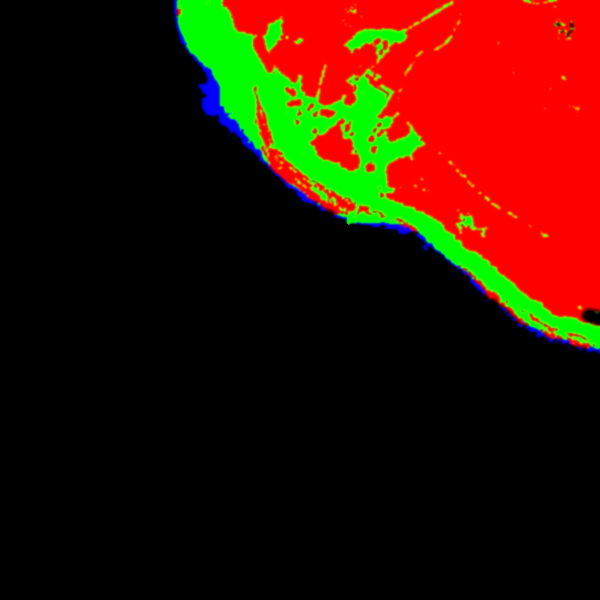
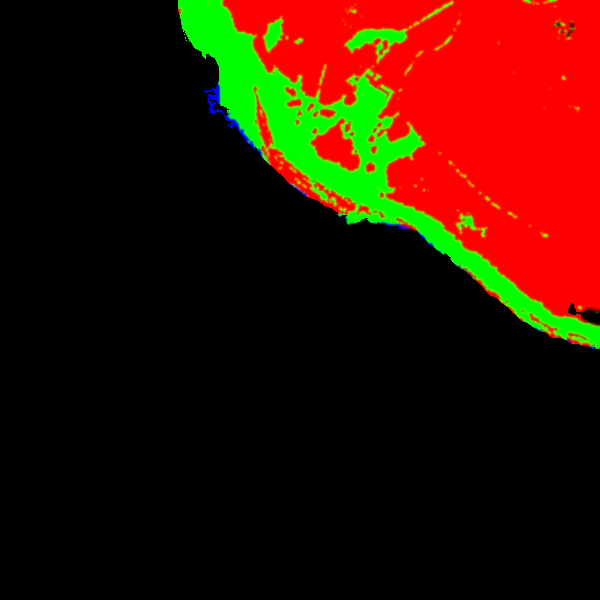
Watching: drag right round to its face, down to eye level, close in to 1.2 m; Kayama's shore where the photo has it; quick back to the sea
Watching a resident: a drag circles all the way round (and stays round there as it turns), tilts
down to eye level; close up or from the side or front the camera looks at it, not past it; a pinch no
longer tips the view to straight down (the finger left behind does nothing); the camera is no longer
forced a metre over the ground, nor above the forest roof inside the opened-up trees round it, nor
lifted by the early climb or the canopy; the horizon stays level as it circles.

The shore: the bake had pushed land out over the pale shallows off the beach (the 10 m elevation
model and its own clean-up), so the drone and residents met land where the photo showed sea.
scripts/fix-coast.py grows the sea from clear water across anything low and water-coloured within
20 m of the old shore (not the beach sand, not the bushes behind it) and lowers it to a shallow floor.

Letting go of someone: straight back to the sea, quickly and above the trees (about 8 s from Dot's
clearing in the middle of the island), and the residents ashore are left be for a while, so the
cruise does not turn back to film the one just left.

Claude-Session: https://claude.ai/code/session_01Cu8HS3iZXwUCH9CtiBM9NN

diff --git a/src/main.ts b/src/main.ts
@@ -244,16 +244,19 @@ function updateDrone(dt: number, now: number) {
     // turn does not swing the view about), looking past it to what lies ahead: it, and its world
     const p = watch.r.pos, T = cur!.T, h = watch.r.head ?? 0, fx = Math.sin(h), fz = Math.cos(h);
     watch.ang += angDiff(Math.atan2(-fz, -fx) + watch.off, watch.ang) * Math.min(1, dt * 0.5);
-    const ce = Math.cos(watch.el), se = Math.sin(watch.el);
-    _t.set(p.x + Math.cos(watch.ang) * ce * watch.dist, p.y + 0.6 + se * watch.dist, p.z + Math.sin(watch.ang) * ce * watch.dist);
-    _t.y = Math.max(_t.y, T.ground(_t.x, _t.z) + 0.9, 1.0);   // clear of the ground, and out of the water (the trees overhead are opened up around it)
+    const ce = Math.cos(watch.el), se = Math.sin(watch.el), mid = watch.r.sp?.living ? 0.3 : 0.55;   // (round its middle: a turtle is low, a robot taller)
+    _t.set(p.x + Math.cos(watch.ang) * ce * watch.dist, p.y + mid + se * watch.dist, p.z + Math.sin(watch.ang) * ce * watch.dist);
+    _t.y = Math.max(_t.y, T.top(_t.x, _t.z) + 0.3, 0.25);   // (the bare ground: the bushes and trees close round it are opened up, not climbed over)   // clear of the ground, and out of the water (the trees overhead are opened up around it)
     _v.subVectors(_t, drone.pos);
     const L = _v.length();
     _v.multiplyScalar(Math.min(L * 1.6, 30) / Math.max(L, 1e-4));   // (across the island quickly when switching)
     if (drone.pos.y < 0) _v.set(_v.x * 0.15, 3, _v.z * 0.15);   // under the water: straight up through the surface first
     drone.vel.lerp(_v, 1 - Math.exp(-dt * 3));
-    const ax = p.x + fx * 2.2, az = p.z + fz * 2.2;
-    const lx = ax - camera.position.x, ly = p.y + 0.5 - camera.position.y, lz = az - camera.position.z;
+    // looking a little past it, the way it is going — but only from behind and not too close; from the side,
+    // in front of it or close up, at it (its face, when you have come round to see it)
+    const behind = clamp(Math.cos(watch.off), 0, 1) * clamp((watch.dist - 2.5) / 4, 0, 1);
+    const ax = p.x + fx * 2.2 * behind, az = p.z + fz * 2.2 * behind;
+    const lx = ax - camera.position.x, ly = p.y + mid - 0.1 * behind - camera.position.y, lz = az - camera.position.z;
     const k = Math.min(1, dt * 2.5);
     drone.yaw += angDiff(Math.atan2(-lx, -lz), drone.yaw) * k;
     drone.pitch += (Math.atan2(ly, Math.hypot(lx, lz)) - drone.pitch) * k;
@@ -310,7 +313,15 @@ function updateDrone(dt: number, now: number) {
     drone.s += speed * dt / Math.max(pathRate(drone.s), 1e-3);
     pathPoint(drone.s, _t);
     _v.subVectors(_t, drone.pos);
-    const L = _v.length(); _v.multiplyScalar(Math.min(L * 1.4, L > 6 ? 4.5 : 3) / Math.max(L, 1e-4));
+    let L = _v.length();
+    // far from the cruise line (just back from the island's middle, or from watching someone inland): fly
+    // straight back to it, quickly, above the trees, and only then down into the water
+    if (L > 20) {
+      const T = cur!.T, gr = Math.max(T.ground(drone.pos.x, drone.pos.z), T.over ? T.over(drone.pos.x, drone.pos.z) : -1e9);
+      const hz = Math.hypot(_v.x, _v.z);
+      if (gr > -0.5 && hz > 12) { _v.y = Math.max(gr + 4, 3) - drone.pos.y; L = _v.length(); }
+      _v.multiplyScalar(Math.min(L * 0.5, 18) / Math.max(L, 1e-4));
+    } else _v.multiplyScalar(Math.min(L * 1.4, L > 6 ? 4.5 : 3) / Math.max(L, 1e-4));
     drone.vel.lerp(_v, 1 - Math.exp(-dt * 1.5));
     pathPoint(drone.s + 9 / Math.max(pathRate(drone.s), 1e-3), _a);
     const dx = _a.x - drone.pos.x, dz = _a.z - drone.pos.z, dy = _a.y - drone.pos.y;
@@ -351,7 +362,7 @@ function updateDrone(dt: number, now: number) {
   }
   // look ahead along the way we are moving and start climbing well before a rock or coral head
   const G = cur!.T.ground, hs = Math.hypot(drone.vel.x, drone.vel.z);
-  if (hs > 0.05) {
+  if (hs > 0.05 && !(watch.r && !watch.pov)) {   // (watching someone, the camera's own spot already keeps clear of the ground: no early climbing away from their eye level)
     let ahead = -1e9;
     // (outside the cave, its rock counts as ground to climb over; inside the tunnel, the roof doesn't)
     const cv = cur!.cave, outside = !cv || cv.topAt(drone.pos.x, drone.pos.z) < drone.pos.y + 0.5;
@@ -365,13 +376,17 @@ function updateDrone(dt: number, now: number) {
   }
   drone.pos.addScaledVector(drone.vel, dt);
   // watching from above: never down inside the forest roof
-  if (watch.r && !watch.pov && cur!.T.over) drone.pos.y = Math.max(drone.pos.y, cur!.T.over(drone.pos.x, drone.pos.z) + 1.5);
+  // (except close by it, where the trees are opened up anyway: there it may come down to eye level)
+  if (watch.r && !watch.pov && cur!.T.over && Math.hypot(drone.pos.x - watch.r.pos.x, drone.pos.z - watch.r.pos.z) > Math.max(7, watch.dist * 1.2) - 0.5) drone.pos.y = Math.max(drone.pos.y, cur!.T.over(drone.pos.x, drone.pos.z) + 1.5);
   // keep a clear bubble: the floor is the highest ground in a ring around the camera, not just under it,
   // and we rise onto it smoothly rather than popping up
-  let fh = G(drone.pos.x, drone.pos.z);
-  for (let k = 0; k < 8; k++) { const a = k * Math.PI / 4; fh = Math.max(fh, G(drone.pos.x + Math.cos(a) * 0.7, drone.pos.z + Math.sin(a) * 0.7) - 0.25); }
-  if (drone.pos.y < fh + 0.75) {
-    drone.pos.y = Math.max(fh + 0.35, drone.pos.y + (fh + 0.75 - drone.pos.y) * Math.min(1, dt * 6));
+  // (watching someone close by, the bushes and trees around them are opened up: only the bare ground counts)
+  const Gc = watch.r && !watch.pov && Math.hypot(drone.pos.x - watch.r.pos.x, drone.pos.z - watch.r.pos.z) < Math.max(7, watch.dist * 1.2) - 0.5 ? cur!.T.top : G;
+  let fh = Gc(drone.pos.x, drone.pos.z);
+  for (let k = 0; k < 8; k++) { const a = k * Math.PI / 4; fh = Math.max(fh, Gc(drone.pos.x + Math.cos(a) * 0.7, drone.pos.z + Math.sin(a) * 0.7) - 0.25); }
+  const clear = watch.r && !watch.pov ? 0.4 : 0.75;   // (watching someone close up: down nearer their eye level)
+  if (drone.pos.y < fh + clear) {
+    drone.pos.y = Math.max(fh + 0.3, drone.pos.y + (fh + clear - drone.pos.y) * Math.min(1, dt * 6));
     if (drone.vel.y < 0) drone.vel.y *= 0.5;
   }
   // the cave massif is solid in 3D: slide along its walls, roof and the rims of its skylights
@@ -399,7 +414,7 @@ function updateDrone(dt: number, now: number) {
   drone.pos.x = clamp(drone.pos.x, -lim, lim); drone.pos.z = clamp(drone.pos.z, -lim, lim);
   drone.pitch = clamp(drone.pitch, -1.25, 1.25);
   yawRate += (angDiff(drone.yaw, prevYaw) / Math.max(dt, 1e-3) - yawRate) * Math.min(1, dt * 3);
-  drone.roll += (-yawRate * 0.18 - drone.roll) * Math.min(1, dt * 2);
+  drone.roll += ((watch.r ? 0 : -yawRate * 0.18) - drone.roll) * Math.min(1, dt * 2);   // (watching someone: the horizon stays level as the camera circles)
   camera.position.copy(drone.pos); camera.position.y += Math.sin(t * 0.8) * 0.04;
   // just above the sea the camera rides the swell, rising, falling and rolling with it
   const ride = drone.pos.y > 0 ? 1 - smooth(1.5, 5, drone.pos.y) : 0;
@@ -1507,7 +1522,9 @@ function stopWatch(resume: boolean) {
   if (watch.pov) { watch.r = null; setPov(false); }
   watch.r = null;
   renderWatch();
-  if (resume && cur) { drone.s = nearestS(drone.pos); if (drone.pos.y > 0) { drone.sky = true; drone.skyT = 0; drone.skyAge = 0; drone.skyStay = rr(...persona.skyStay) * 0.5; } skyLabel(); }
+  // let go: straight back to the sea (quickly, above the trees), and leave the residents ashore be for a
+  // while, so the cruise does not turn round to film the one just left
+  if (resume && cur) { drone.s = nearestS(drone.pos); drone.sky = false; drone.seaUntil = performance.now() + 150000; director.reset(); lastShot = null; skyLabel(); }
 }
 // the row of residents to watch (only by the island), and the card for the one being watched
 function renderWatch() {
@@ -1691,7 +1708,7 @@ addEventListener('keyup', (e) => keys.delete(e.code));
 addEventListener('blur', () => keys.clear());
 
 const pointers = new Map<number, { x: number; y: number }>();
-let pinch0 = 0, dragT = 0;
+let pinch0 = 0, dragT = 0, pinched = false;   // (pinched: two fingers were down — the one left behind does not then turn the view)
 canvas.addEventListener('pointerdown', (e) => {
   pointers.set(e.pointerId, { x: e.clientX, y: e.clientY }); canvas.setPointerCapture(e.pointerId);
   if (mode === 'globe') { gv.dragging = true; gv.vlon = gv.vlat = 0; dragT = performance.now(); }   // a touch catches a spinning globe
@@ -1714,11 +1731,12 @@ canvas.addEventListener('pointermove', (e) => {
     const a = Math.min(1, dtm * 12);
     gv.vlon += (-dx * k / dtm * 0.6 - gv.vlon) * a; gv.vlat += (dy * k / dtm * 0.6 - gv.vlat) * a;
   } else {
-    if (watch.r && pointers.size === 2) { const [a, b] = [...pointers.values()]; const d = Math.hypot(a.x - b.x, a.y - b.y); if (pinch0) watch.dist = clamp(watch.dist * pinch0 / d, 2.5, 60); pinch0 = d; tap.moved += 99; return; }
+    if (watch.r && pointers.size >= 2) { const [a, b] = [...pointers.values()]; const d = Math.hypot(a.x - b.x, a.y - b.y); if (pinch0) watch.dist = clamp(watch.dist * pinch0 / d, 1.2, 60); pinch0 = d; pinched = true; tap.moved += 99; return; }
+    if (watch.r && pinched) return;
     const k = isTouch ? 0.006 : 0.0035;
     tap.moved += Math.abs(dx) + Math.abs(dy);
     if (drone.mode === 'manual') { drone.lastInput = performance.now(); drone.yaw -= dx * k; drone.pitch -= dy * k; }
-    else if (watch.r && !watch.pov) { watch.off -= dx * k * 1.2; watch.el = clamp(watch.el + dy * k, 0.12, 1.45); }   // watching: drag to circle round and tilt
+    else if (watch.r && !watch.pov) { watch.off -= dx * k * 1.2; watch.el = clamp(watch.el + dy * k, -0.12, 1.45); }   // watching: drag to circle round it (all the way to its face) and tilt, down to eye level
     else { look.held = true; look.yaw = clamp(look.yaw - dx * k, -2.6, 2.6); look.pitch = clamp(look.pitch - dy * k, -1.1, 1.1); }   // cruising: only the view turns
   }
 });
@@ -1727,13 +1745,13 @@ const endP = (e: PointerEvent) => {
     look.held = false; look.let = performance.now();
     if (drone.mode === 'auto' && tap.moved < 10 && performance.now() - tap.t < 450 && e.type === 'pointerup') { if (watch.r) { const s = pickAt(e.clientX, e.clientY); if (s && s.kind === 'robot') { const r = cur!.residents!.list.find((x: any) => x.subject === s); if (r) startWatch(r); } } else tapAt(e.clientX, e.clientY); }
   }
-  pointers.delete(e.pointerId); if (pointers.size < 2) pinch0 = 0;
+  pointers.delete(e.pointerId); if (pointers.size < 2) pinch0 = 0; if (!pointers.size) pinched = false;
   gv.dragging = pointers.size > 0;
   if (performance.now() - dragT > 90) gv.vlon = gv.vlat = 0;   // held still before letting go: no fling
   gv.vlon = clamp(gv.vlon, -120, 120); gv.vlat = clamp(gv.vlat, -60, 60);
 };
 canvas.addEventListener('pointerup', endP); canvas.addEventListener('pointercancel', endP);
-canvas.addEventListener('wheel', (e) => { if (mode === 'ocean' && watch.r && !watch.pov) { e.preventDefault(); watch.dist = clamp(watch.dist * (1 + clamp(e.deltaY, -120, 120) * 0.0012), 2.5, 60); return; } if (mode !== 'globe' || busy) return; e.preventDefault(); gv.tween = null; gv.lastUser = performance.now(); gv.dist = clamp(gv.dist * (1 + clamp(e.deltaY, -120, 120) * 0.0007), 1.35, 4.5); }, { passive: false });
+canvas.addEventListener('wheel', (e) => { if (mode === 'ocean' && watch.r && !watch.pov) { e.preventDefault(); watch.dist = clamp(watch.dist * (1 + clamp(e.deltaY, -120, 120) * 0.0012), 1.2, 60); return; } if (mode !== 'globe' || busy) return; e.preventDefault(); gv.tween = null; gv.lastUser = performance.now(); gv.dist = clamp(gv.dist * (1 + clamp(e.deltaY, -120, 120) * 0.0007), 1.35, 4.5); }, { passive: false });
 {
   const pad = $('joy'), knob = $('knob'); let jid: number | null = null;
   const setJ = (e: PointerEvent) => {
@@ -2027,7 +2045,7 @@ if (start) { gv.lat = start.lat; gv.lon = start.lon; setTimeout(() => (probe ? s
 void smooth;
 
 // Inspect the live sim from the console with ?debug
-if (location.search.includes('debug')) (window as any).seaglass = { get cur() { return cur; }, clock, drone, stepDrone: (dt: number) => updateDrone(dt, performance.now()), persona: (id: string) => setPersona(personaById(id)), U, director, goTo, seaLog, forceMeteors, minimap, get bait() { return cur?.bait; }, rare: (id: string) => { const fx = -Math.sin(drone.yaw), fz = -Math.cos(drone.yaw); return cur?.rare.start(id, cur.eco.env, drone.pos, fx, fz); }, pip: () => ({ pipOn, subj: pipSubj?.key, fade: pipFade, hidden: $('pip').hidden, rect: $('pip').getBoundingClientRect().toJSON() }), thumbs: () => guideThumbs(cur!.loc, guideEntries(cur!.loc).map((e) => e.id)), setWx: (w: Partial<Weather>) => { wx = { ...FAIR, ok: true, at: Date.now(), ...w }; if (cur) applySky(cur.loc); } };
+if (location.search.includes('debug')) (window as any).seaglass = { get cur() { return cur; }, clock, drone, stepDrone: (dt: number) => updateDrone(dt, performance.now()), persona: (id: string) => setPersona(personaById(id)), watch, startWatch: (id: string) => startWatch(cur!.residents!.list.find((r: any) => r.id === id)), U, director, goTo, seaLog, forceMeteors, minimap, get bait() { return cur?.bait; }, rare: (id: string) => { const fx = -Math.sin(drone.yaw), fz = -Math.cos(drone.yaw); return cur?.rare.start(id, cur.eco.env, drone.pos, fx, fz); }, pip: () => ({ pipOn, subj: pipSubj?.key, fade: pipFade, hidden: $('pip').hidden, rect: $('pip').getBoundingClientRect().toJSON() }), thumbs: () => guideThumbs(cur!.loc, guideEntries(cur!.loc).map((e) => e.id)), setWx: (w: Partial<Weather>) => { wx = { ...FAIR, ok: true, at: Date.now(), ...w }; if (cur) applySky(cur.loc); } };
 
 declare const __BUILD__: string;
 // ?diag: what this machine's browser and GPU report, for tracking down a blank or white screen

diff --git a/scripts/fix-coast.py b/scripts/fix-coast.py
@@ -1,0 +1,49 @@
+#!/usr/bin/env python3
+"""Puts Kayama-jima's shore where the photograph has it.
+
+The bake (bake-kayama.py) let the 10 m elevation model and its own clean-up push the land out over the
+pale shallows off the beach: ground that shows as turquoise water in the photograph stood above the sea,
+so the drone and the residents met land where the eye saw sea. This reads the baked photographs back,
+takes as sea everything turquoise that is joined to the open water, and lowers the ground there to a
+shallow, gently shelving floor (the beach itself, and the island inside it, are left as they were).
+Usage: python3 scripts/fix-coast.py   (after bake-kayama.py)
+"""
+import numpy as np
+from PIL import Image
+from scipy import ndimage as nd
+
+OUT = 'public/land'
+for SUF, HALF in [('', 300), ('_far', 760)]:
+    Hp = np.asarray(Image.open(f'{OUT}/kayama{SUF}_h.png').convert('RGB')).astype(np.int64)
+    h = (Hp[..., 0] * 256 + Hp[..., 1] - 32768) / 100.0
+    N = h.shape[0]; st = 2 * HALF / N
+    ph = Image.open(f'{OUT}/kayama{SUF}.jpg').convert('RGB').resize((N, N), Image.BOX)
+    P = nd.gaussian_filter(np.asarray(ph).astype(np.float32) / 255, (1, 1, 0))
+    r, g, b = P[..., 0], P[..., 1], P[..., 2]
+    rr = np.maximum(r, 0.02)
+    lum = 0.3 * r + 0.55 * g + 0.15 * b
+    # the beach: bright, almost colourless sand; it is the shore wherever there is one
+    sand = (lum > 0.62) & (b / rr < 1.04) & (np.max(P, -1) - np.min(P, -1) < 0.2)
+    # the sea, grown out from where it is certainly sea (clear turquoise) across anything low that is not sand
+    # and is at least as blue as it is red: the pale shallows off the beach, however green they look
+    sure = (b / rr > 1.25) & (g / rr > 1.3)
+    # (where it is plainly water-coloured, even over ground the 10 m elevation model raised a metre or two)
+    # (and only along the shore: within 20 m of where the bake had it, so bushes behind the beach stay land)
+    din0 = nd.distance_transform_edt(h > 0) * st
+    # (the palest shallows over white sand look as green as a bush, but far brighter)
+    grow = ((b / rr > 1.0) & (h < 0.9) | (b / rr > 1.1) & (h < 2.6) | (b / rr > 0.97) & (lum > 0.62) & (g / rr > 1.3) & (h < 2.6)) & ~nd.binary_dilation(sand, iterations=2) & (din0 < 20)
+    sea = nd.binary_propagation(sure & grow, mask=grow)
+    wrong = sea & (h > -0.05)
+    land = (h > 0) & ~wrong
+    dout = nd.distance_transform_edt(~land) * st            # metres out from the (corrected) shore
+    floor = -(0.12 + dout * 0.035)
+    h2 = np.where(wrong, np.minimum(h, floor), h)
+    h2 = np.where(wrong | nd.binary_dilation(wrong, iterations=2), nd.gaussian_filter(h2, 0.8), h2)
+    h2 = np.where(land & ~wrong, np.maximum(h2, 0.05), h2)  # (the beach stays above the water)
+    hc = np.clip(np.round(h2 * 100) + 32768, 0, 65535).astype(np.int64)
+    Hp2 = np.stack([(hc >> 8), (hc & 255), Hp[..., 2]], -1).astype(np.uint8)
+    Image.fromarray(Hp2).save(f'{OUT}/kayama{SUF}_h.png', optimize=True)
+    C = np.asarray(Image.open(f'{OUT}/kayama{SUF}_c.png').convert('RGB')).copy()
+    C[wrong] = 0                                             # no sand, trees or rock under the water
+    Image.fromarray(C).save(f'{OUT}/kayama{SUF}_c.png', optimize=True)
+    print(SUF or 'near', 'lowered %d cells (%.0f m2)' % (wrong.sum(), wrong.sum() * st * st))
